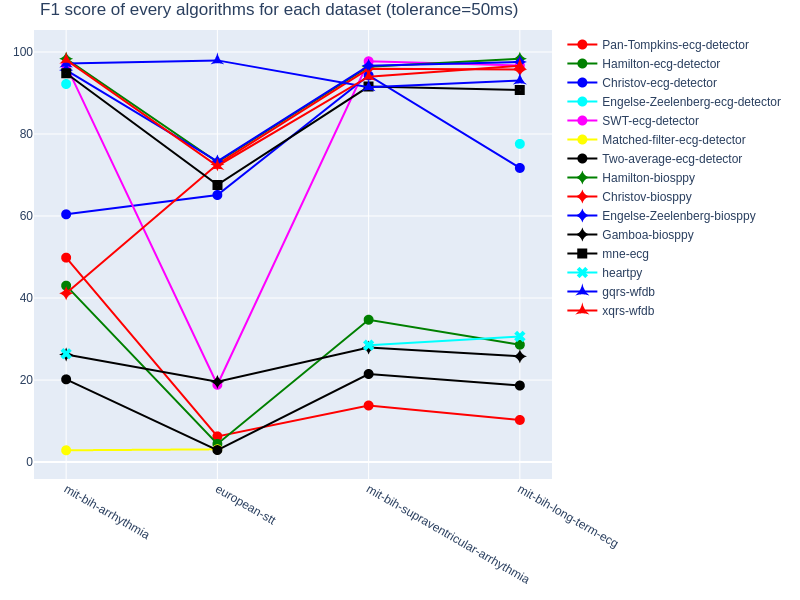
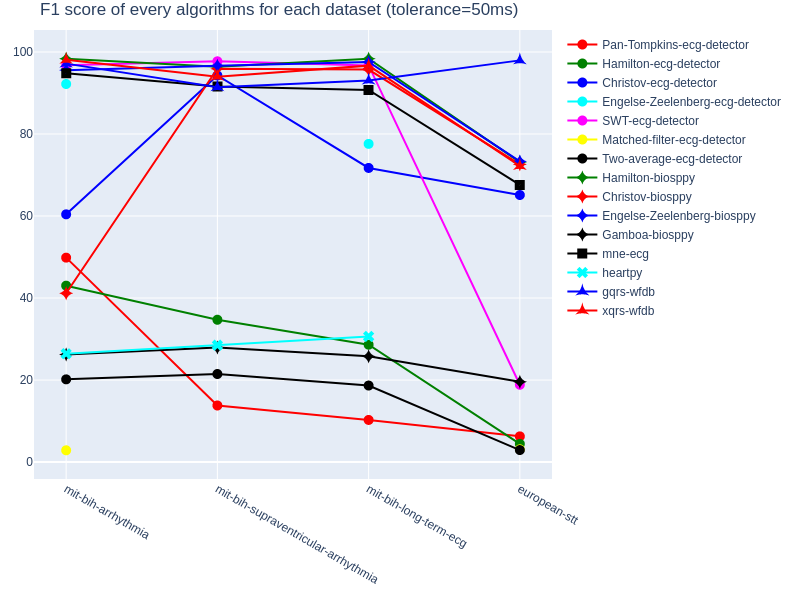
split README

diff --git a/dashboard.py b/dashboard.py
@@ -29,7 +29,7 @@ def print_error_no_evaluation(ds='"#check --help#"', alg='"#check --help#"', t='
     st.write(f'\t make evaluation --DATASET="{ds}" --ALGO="{alg}" --TOLERANCE={t}')
 
 
-datasets_list = ['mit-bih-arrhythmia', 'european-stt', 'mit-bih-supraventricular-arrhythmia', 'mit-bih-long-term-ecg']
+datasets_list = ['mit-bih-arrhythmia', 'mit-bih-supraventricular-arrhythmia', 'mit-bih-long-term-ecg', 'european-stt']
 
 colormap = {
     'Pan-Tompkins-ecg-detector': ['red', 'circle'],

diff --git a/README.md b/README.md
@@ -53,7 +53,9 @@ You can install dependencies from the terminal with the command:
 pip install requirements.txt
 ```
 
-## Usage
+## Quickstart
+
+#### Evaluation
 
 You can perform the evaluation through a Makefile command from the terminal:  
 ```
@@ -83,55 +85,24 @@ Seven criteria and scores are calculated and saved to compare performances. You 
  
 > **F1-score (F1%)** : percentage of the harmonic mean of the positive predictivity and sensibility of the algorithm
 
+#### Vizualisation 
+
 You can display results of evaluation on a streamlit dashboard. To launch it, you can use the following command from the terminal:
 ```
 make viz
 ```
 A new window will open on your web browser.
 
-
-#### Applications of the dashboard
-
 The dashboard consist of 3 different applications, that you can choose with the sidebar at the left.
 
-![image](figures/applications_list.png)
+![image](figures/applications_list.png)  
 
-**Comparison of performances of some algorithms on a dataset** :  
-You can select thanks to the lists and the checkboxes, which algorithms you would like to compare on one dataset with a chosen tolerance.  
-A global comparative table will show performances of each algorithm on the whole selected dataset.  
-
-Here, an example with performances of every algorithms on MIT BIH arrhythmia database, with a tolerance of 50ms:  
-![image](figures/appli1_global_table_arrhythmia_50.png)  
-
-Summary graphs of performances according to two criteria (F1-score and rate of detection failure) are given for every evaluations (combinations algorithm-dataset) performed for a tolerance of 50ms.  
+Several plots and tables show results of performances from your evaluations. For example, you can get get summary graphs which compare performances of every algorithm for each dataset following to th F1 score with a tolerance of 50 milliseconds:  
 
 ![image](figures/F1_global_comparison.png)
-![image](figures/Fp_global_comparison.png)  
+![image](figures/F1_noise_test.png)  
 
-**Complete evaluation of an algorithm on a dataset** :  
-You can select thanks to the lists the evaluation (combination algorithm-dataset), which you would like to have more information about.  
-Detailed tables with performances for each record of the dataset will be displayed.  
-
-Here, an example with the Hamilton method from Biosppy library for MIT BIH long term ecg with a tolerance of 50ms:  
-![image](figures/appli2_table_perf_long-term_HamiltonB_50.png)  
-
-Histograms represent the repartition of delays (time between a correct detection in comparison with its corresponding annotated R peak) in a record you can select among the database.  
-
-Here, an example with the Hamilton method from Biosppy library for the record 14046 from MIT BIH long term ecg, with a tolerance of 50ms:  
-![image](figures/appli2_histo_delays_long-term_HamiltonB_50_14046.png)  
-    **/!\ Be careful** the delay is in "number of frames" instead of milliseconds. The correspondance depends on the sampling frequency : For example, the sampling frequency for the MIT BIH Arrhythmia Database is 360 Hz, it means there are 360 frames during a second of the record. Thus, if the delay is worth 18 frames, it corresponds to 0.05s (18x1:360) or 50ms.
-
-**Comparison of performances of one algorithm for different Signal to Noise Ratios** or test of noise robustness :  
-You can select thanks to the list an algorithm and a tolerance. The dataset used in this application is MIT BIH Noise Stress Database, which corresponds to the same two records (118/119 from MIT BIH Arrhythmia) with six additional noise levels. Please read Physionet description for more details about. SNR is the ratio of the power of the signal (here ECG) to the one of the background noise (here electrode motion artifact); for each record, the value of SNR is the measure on segments of the signal where the noise was added.  
-Detailed tables with performances for each record and each SNR's value are given.
-
-Here, an example with the Engelse-Zeelenberg method from Biosppy library for record 118 from MIT BIH arrhythmia and noise stress test databases, with a tolerance of 50ms:  
-![image](figures/appli3_table_perf_EZB_50_118.png)  
-
-Summary graphs of performances according to two criteria (F1-score and rate of detection failure) are displayed for every evaluations (combinations algorithm-dataset(/SNR)) performed for a tolerance of 50ms.  
-
-![image](figures/F1_noise_test.png)
-![image](figures/Fp_noise_test.png)  
+If you want more information about different applications and their goals, please see [Go Further](README2.md)
 
 
 ## License

diff --git a/README2.md b/README2.md
@@ -1,0 +1,43 @@
+## Go Further
+
+#### Applications of the dashboard
+
+
+_ **Comparison of performances of some algorithms on a dataset** :  
+You can select thanks to the lists and the checkboxes, which algorithms you would like to compare on one dataset with a chosen tolerance.  
+A global comparative table will show performances of each algorithm on the whole selected dataset.  
+
+Here, an example with performances of every algorithms on MIT BIH arrhythmia database, with a tolerance of 50ms:  
+![image](figures/appli1_global_table_arrhythmia_50.png)  
+
+Summary graphs of performances according to two criteria (F1-score and rate of detection failure) are given for every evaluations (combinations algorithm-dataset) performed for a tolerance of 50ms.  
+
+![image](figures/F1_global_comparison.png)
+![image](figures/Fp_global_comparison.png)  
+
+_ **Complete evaluation of an algorithm on a dataset** :  
+You can select thanks to the lists the evaluation (combination algorithm-dataset), which you would like to have more information about.  
+Detailed tables with performances for each record of the dataset will be displayed.  
+
+Here, an example with the Hamilton method from Biosppy library for MIT BIH long term ecg with a tolerance of 50ms:  
+![image](figures/appli2_table_perf_long-term_HamiltonB_50.png)  
+
+Histograms represent the repartition of delays (time between a correct detection in comparison with its corresponding annotated R peak) in a record you can select among the database.  
+
+Here, an example with the Hamilton method from Biosppy library for the record 14046 from MIT BIH long term ecg, with a tolerance of 50ms:  
+![image](figures/appli2_histo_delays_long-term_HamiltonB_50_14046.png)   
+
+**/!\ Be careful** the delay is in "number of frames" instead of milliseconds. The correspondance depends on the sampling frequency : For example, the sampling frequency for the MIT BIH Arrhythmia Database is 360 Hz, it means there are 360 frames during a second of the record. Thus, if the delay is worth 18 frames, it corresponds to 0.05s (18x1:360) or 50ms.
+
+_ **Comparison of performances of one algorithm for different Signal to Noise Ratios** or test of noise robustness : 
+ 
+You can select thanks to the list an algorithm and a tolerance. The dataset used in this application is MIT BIH Noise Stress Database, which corresponds to the same two records (118/119 from MIT BIH Arrhythmia) with six additional noise levels. Please read Physionet description for more details about. SNR is the ratio of the power of the signal (here ECG) to the one of the background noise (here electrode motion artifact); for each record, the value of SNR is the measure on segments of the signal where the noise was added.  
+Detailed tables with performances for each record and each SNR's value are given.
+
+Here, an example with the Engelse-Zeelenberg method from Biosppy library for record 118 from MIT BIH arrhythmia and noise stress test databases, with a tolerance of 50ms:  
+![image](figures/appli3_table_perf_EZB_50_118.png)  
+
+Summary graphs of performances according to two criteria (F1-score and rate of detection failure) are displayed for every evaluations (combinations algorithm-dataset(/SNR)) performed for a tolerance of 50ms.  
+
+![image](figures/F1_noise_test.png)
+![image](figures/Fp_noise_test.png)  
